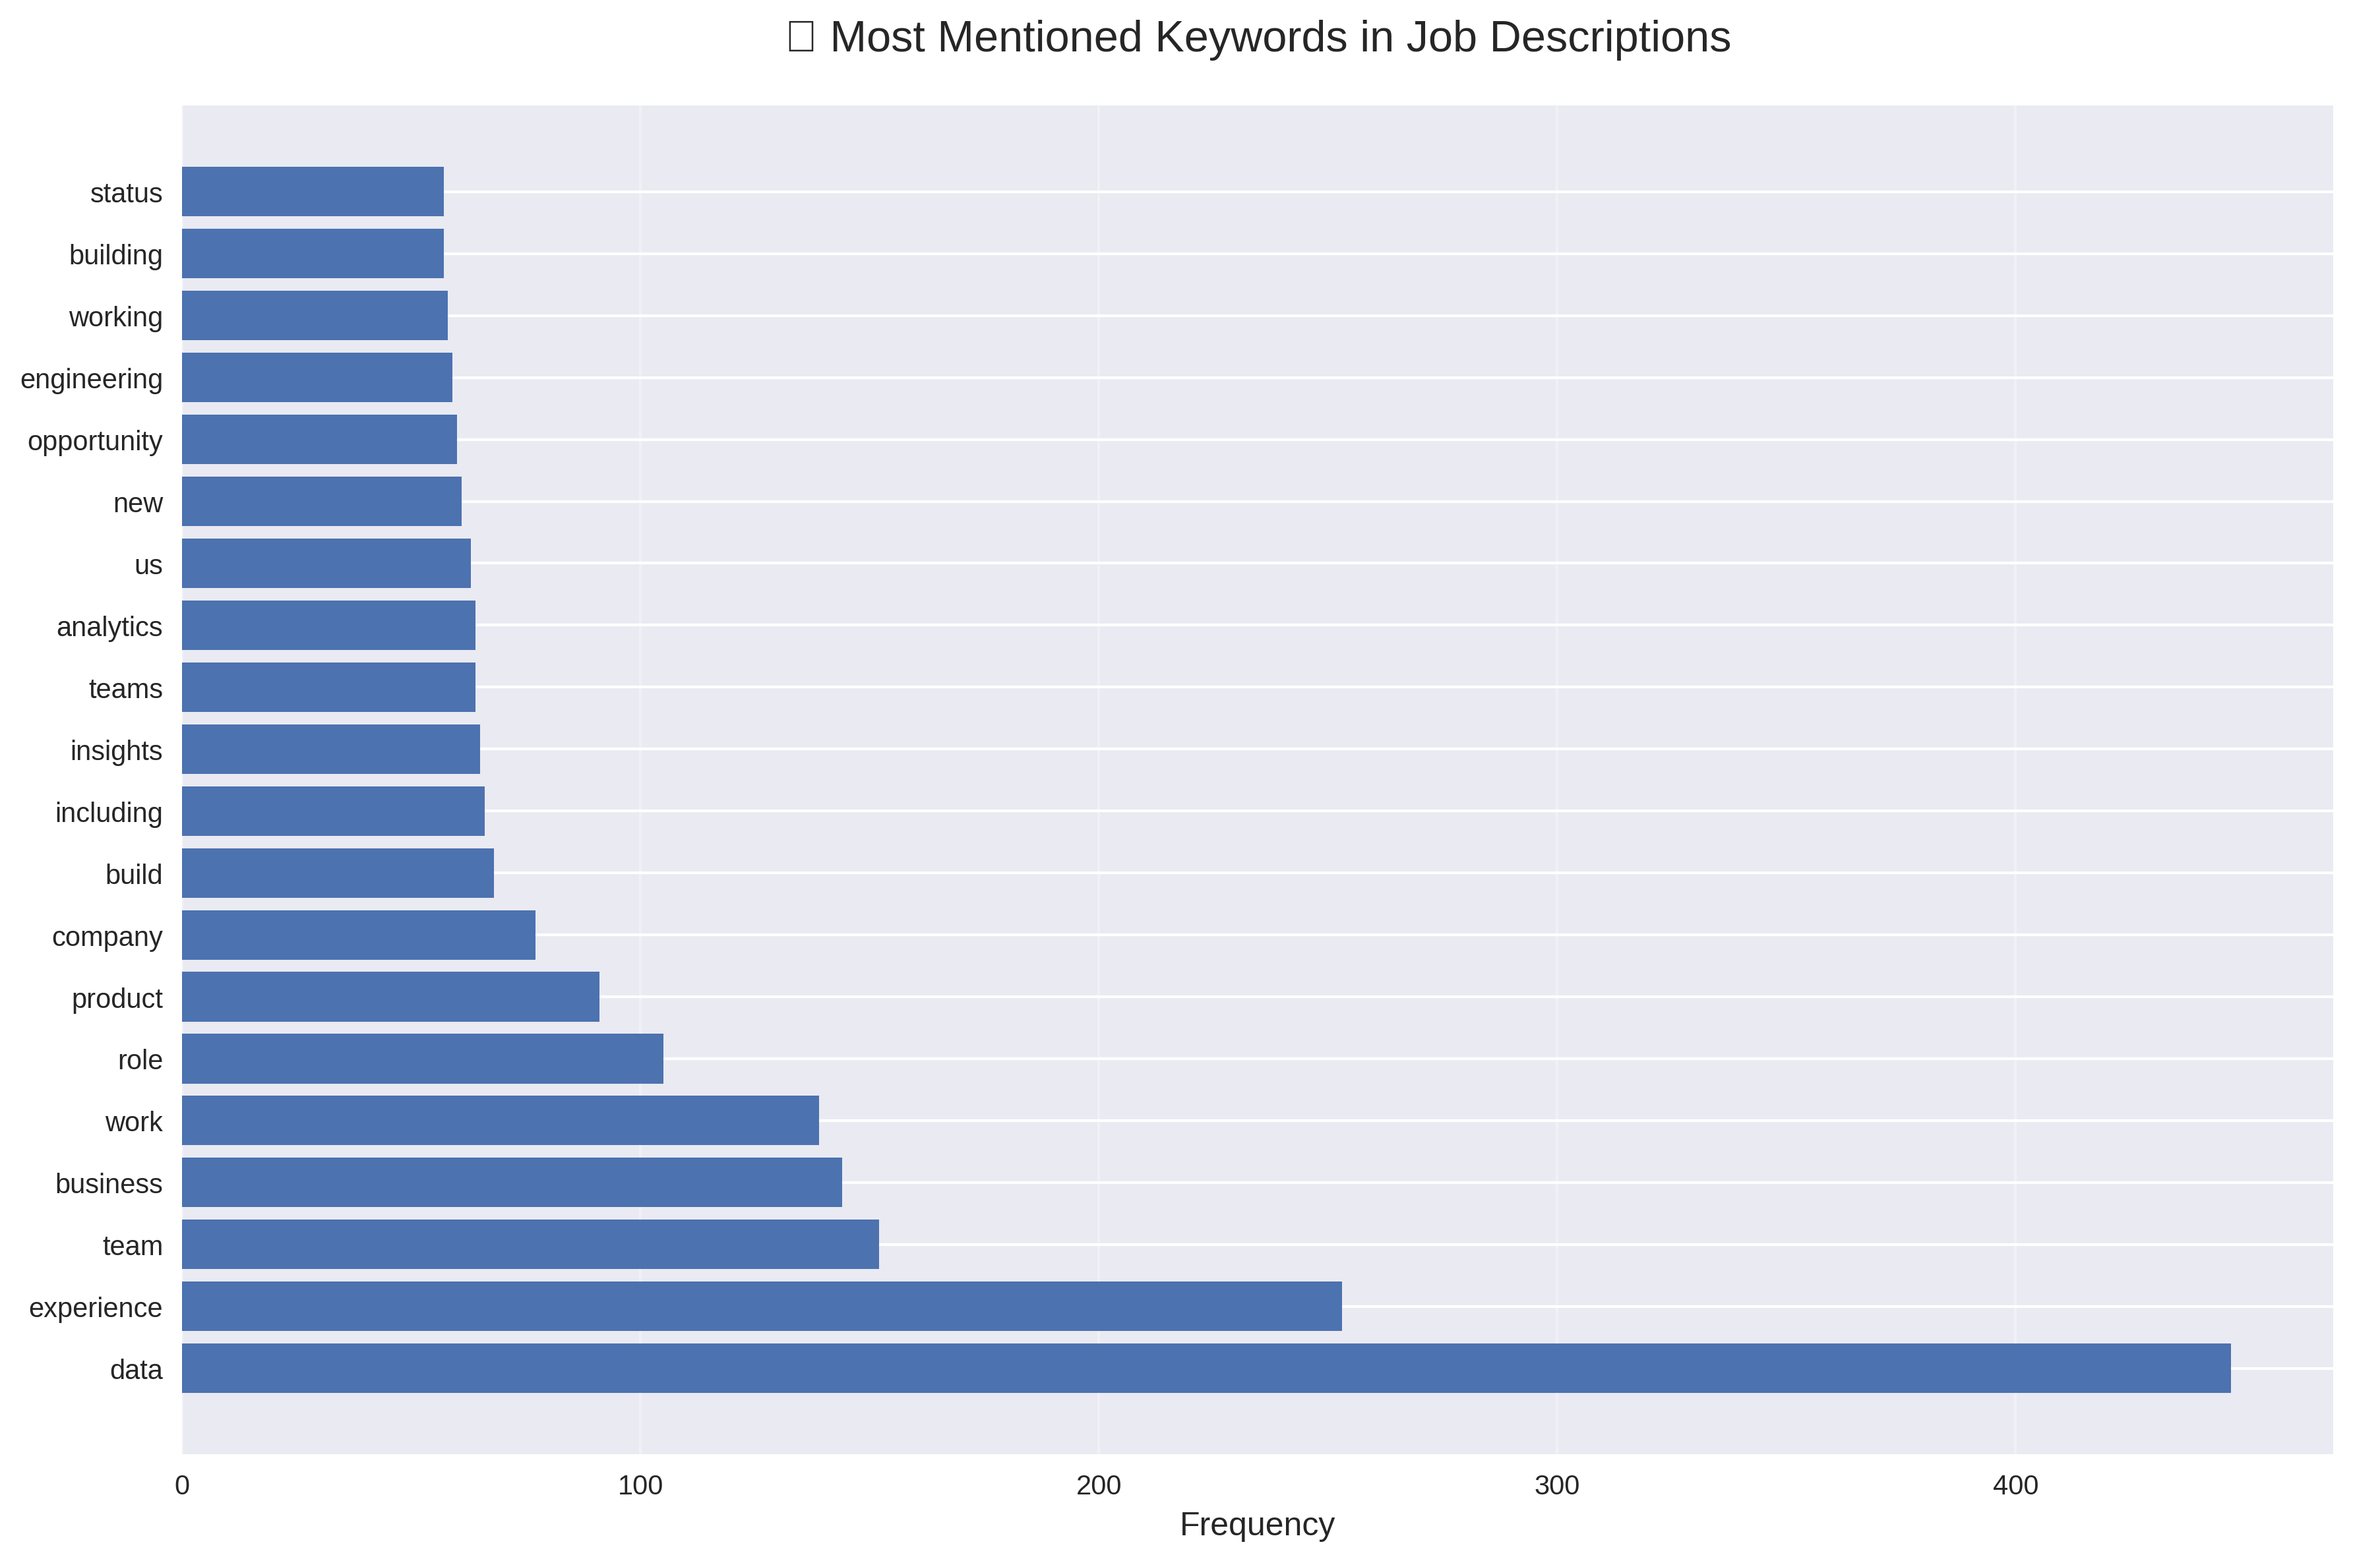
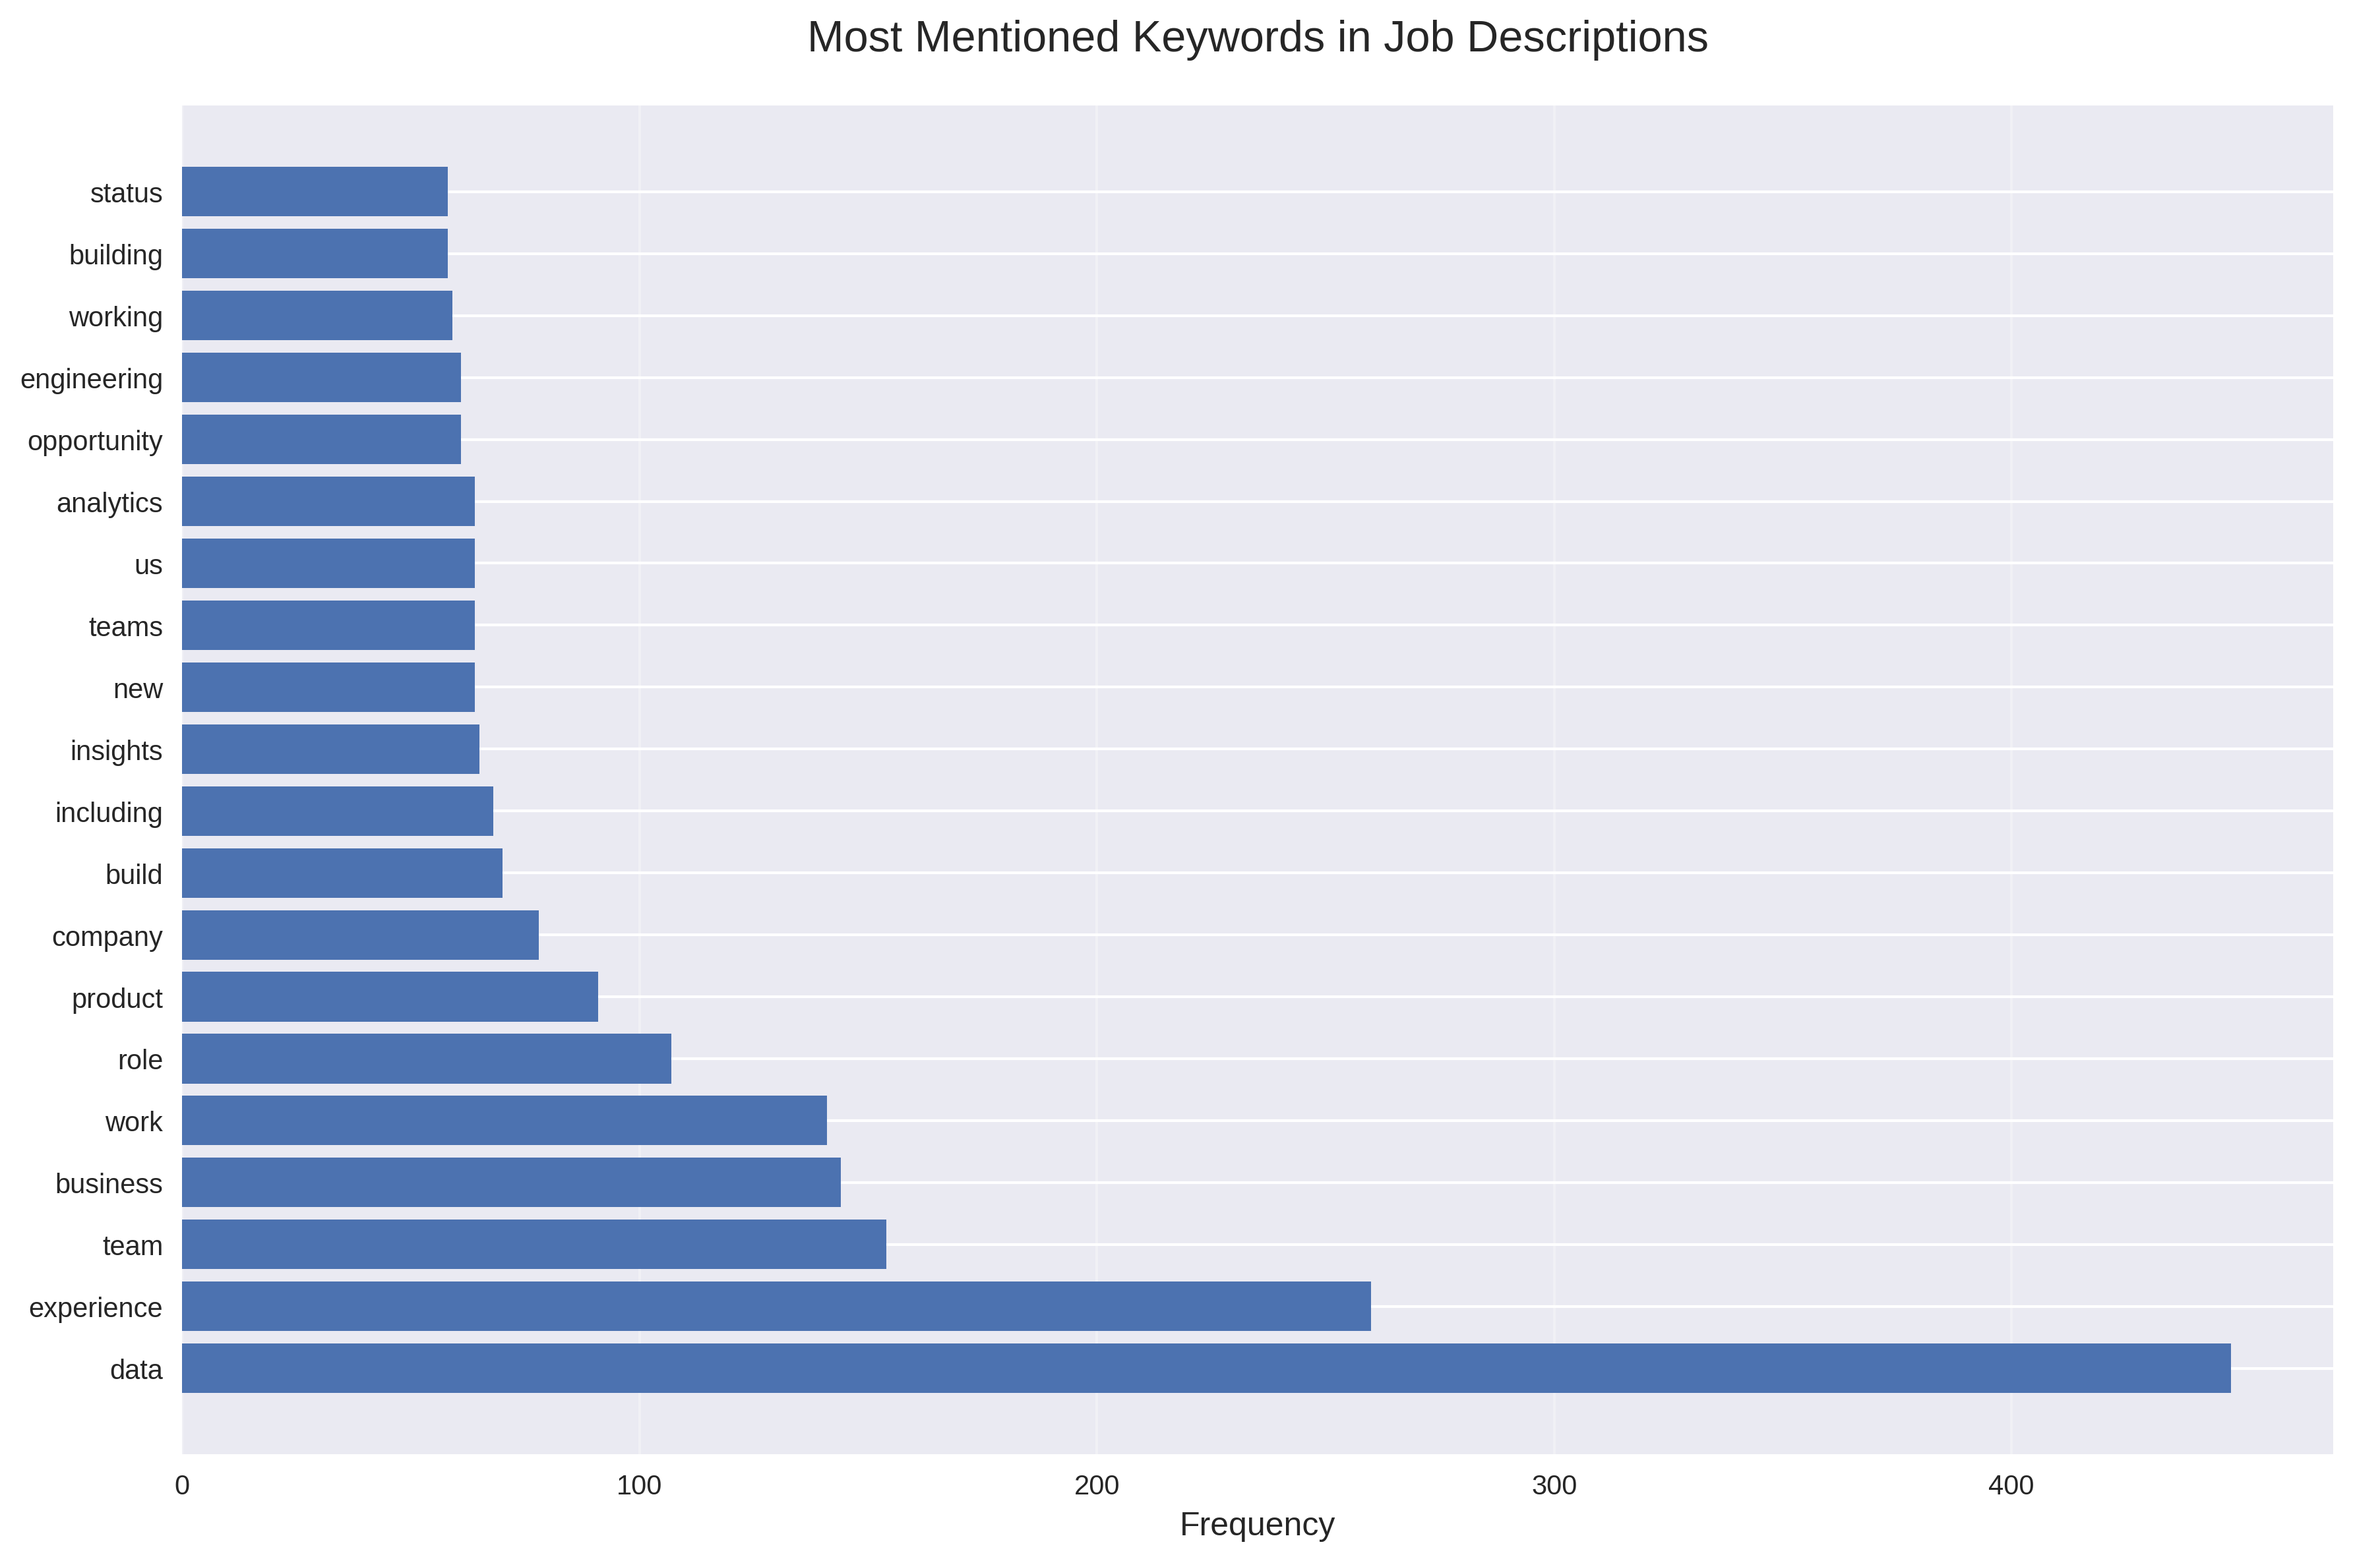
Updated output in ipynb

diff --git a/data/outputs/data_jobs_market_analysis.html b/data/outputs/data_jobs_market_analysis.html
@@ -16,26 +16,26 @@
         <body>
             <div class="header">
                 <h1>Job Market Analysis Report</h1>
-                <p>Generated on: 2025-05-30 21:45:01</p>
+                <p>Generated on: 2025-05-31 07:49:09</p>
             </div>
             
             <div class="section">
                 <h2>Dataset Summary</h2>
                 <table class="stats-table">
-        <tr><td>Total Jobs</td><td>43</td></tr><tr><td>Unique Companies</td><td>40</td></tr><tr><td>Unique Locations</td><td>21</td></tr><tr><td>Jobs With Salary</td><td>32</td></tr>
+        <tr><td>Total Jobs</td><td>44</td></tr><tr><td>Unique Companies</td><td>41</td></tr><tr><td>Unique Locations</td><td>21</td></tr><tr><td>Jobs With Salary</td><td>33</td></tr>
                 </table>
             </div>
             
             <div class="section">
                 <h2>Top Keywords</h2>
                 <div class="keywords-list">
-        <p><strong>data</strong>: 447</p><p><strong>experience</strong>: 253</p><p><strong>team</strong>: 152</p><p><strong>business</strong>: 144</p><p><strong>work</strong>: 139</p><p><strong>role</strong>: 105</p><p><strong>product</strong>: 91</p><p><strong>company</strong>: 77</p><p><strong>build</strong>: 68</p><p><strong>including</strong>: 66</p><p><strong>insights</strong>: 65</p><p><strong>teams</strong>: 64</p><p><strong>analytics</strong>: 64</p><p><strong>us</strong>: 63</p><p><strong>new</strong>: 61</p><p><strong>opportunity</strong>: 60</p><p><strong>engineering</strong>: 59</p><p><strong>working</strong>: 58</p><p><strong>building</strong>: 57</p><p><strong>status</strong>: 57</p>
+        <p><strong>data</strong>: 448</p><p><strong>experience</strong>: 260</p><p><strong>team</strong>: 154</p><p><strong>business</strong>: 144</p><p><strong>work</strong>: 141</p><p><strong>role</strong>: 107</p><p><strong>product</strong>: 91</p><p><strong>company</strong>: 78</p><p><strong>build</strong>: 70</p><p><strong>including</strong>: 68</p><p><strong>insights</strong>: 65</p><p><strong>new</strong>: 64</p><p><strong>teams</strong>: 64</p><p><strong>us</strong>: 64</p><p><strong>analytics</strong>: 64</p><p><strong>opportunity</strong>: 61</p><p><strong>engineering</strong>: 61</p><p><strong>working</strong>: 59</p><p><strong>building</strong>: 58</p><p><strong>status</strong>: 58</p>
                 </div>
             </div>
             
             <div class="section">
                 <h2>Salary Analysis</h2>
-        <table class="stats-table"><tr><th>Location</th><th>Min Salary</th><th>Max Salary</th></tr><tr><td>Canada,  USA</td><td>$165,700</td><td>$214,650</td></tr><tr><td>APAC,  Australia</td><td>$127,000</td><td>$203,000</td></tr><tr><td>Canada</td><td>$140,000</td><td>$175,833</td></tr><tr><td>USA</td><td>$123,404</td><td>$170,133</td></tr><tr><td>Mexico,  USA</td><td>$70,000</td><td>$150,000</td></tr><tr><td>Canada,  Europe,  USA</td><td>$110,000</td><td>$147,000</td></tr><tr><td>US</td><td>$75,000</td><td>$110,000</td></tr><tr><td>San Francisco</td><td>$67,500</td><td>$97,500</td></tr><tr><td>United States</td><td>$65,000</td><td>$90,000</td></tr><tr><td>Remote</td><td>$55,000</td><td>$70,000</td></tr></table>
+        <table class="stats-table"><tr><th>Location</th><th>Min Salary</th><th>Max Salary</th></tr><tr><td>Canada,  USA</td><td>$165,700</td><td>$214,650</td></tr><tr><td>APAC,  Australia</td><td>$127,000</td><td>$203,000</td></tr><tr><td>Canada</td><td>$140,000</td><td>$175,833</td></tr><tr><td>USA</td><td>$122,955</td><td>$169,484</td></tr><tr><td>Mexico,  USA</td><td>$70,000</td><td>$150,000</td></tr><tr><td>Canada,  Europe,  USA</td><td>$110,000</td><td>$147,000</td></tr><tr><td>US</td><td>$75,000</td><td>$110,000</td></tr><tr><td>San Francisco</td><td>$67,500</td><td>$97,500</td></tr><tr><td>United States</td><td>$65,000</td><td>$90,000</td></tr><tr><td>Remote</td><td>$55,000</td><td>$70,000</td></tr></table>
             </div>
         </body>
         </html>

diff --git a/README.md b/README.md
@@ -178,6 +178,12 @@ visualization:
 - **Network Analysis**: Company hiring patterns and employee movement
 - **Crowdsourced Insights**: Community-contributed salary and interview data
 
+### 7.2 Phase 3: Automation and AI Revolution
+
+- **Smart web scraping**: AI-powered web scraping for job boards with no APIs
+- **Daily scraping**:  Set up cron jobs for regular data collection
+- **Machine Learning Enhancements**: Job description similarity clustering, salary prediction models, skills demand forecasting
+
 <h2 style="text-align: center;"> 8. 🤝 Contributing </h2>
 
 We love contributors! Whether you're fixing typos, adding features, or sharing insights:
